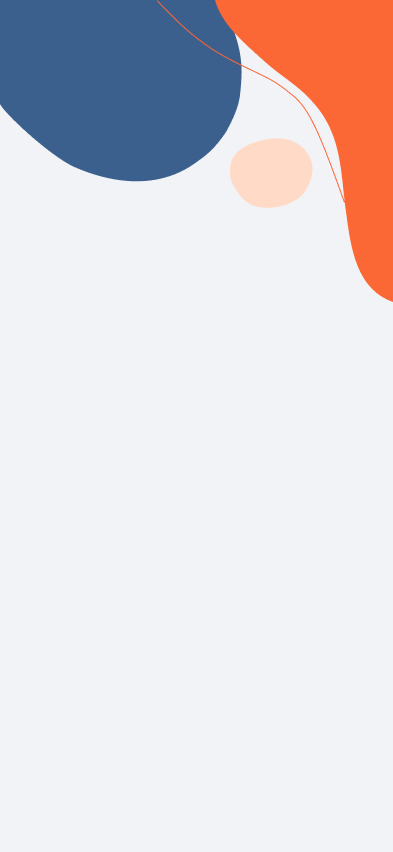
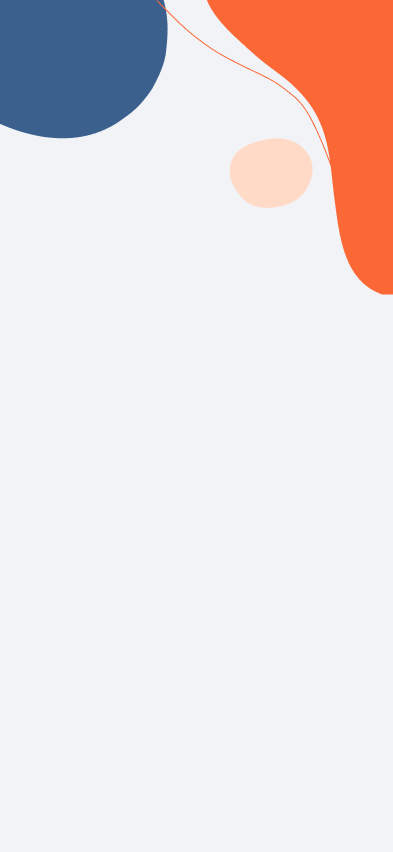
- change background image - added widgets related to register scren ( UserDataForm - AlreadyRegisteredText ) - added Register screen

diff --git a/lib/features/register/ui/register_screen.dart b/lib/features/register/ui/register_screen.dart
@@ -1,16 +1,42 @@
+import 'package:edugate_applocation/core/helpers/spacing.dart';
+import 'package:edugate_applocation/core/theming/colors.dart';
+import 'package:edugate_applocation/core/theming/styles.dart';
+import 'package:edugate_applocation/core/widgets/app_title_and_button.dart';
+import 'package:edugate_applocation/core/widgets/custom_background.dart';
+import 'package:edugate_applocation/features/register/ui/widgets/user_data_form.dart';
 import 'package:flutter/material.dart';
+import 'widgets/already_registered_text.dart';
 
 class RegisterScreen extends StatelessWidget {
   const RegisterScreen({super.key});
 
   @override
   Widget build(BuildContext context) {
-    return const Scaffold(
-      body: Center(
-        child: Text(
-          'Register Screen',
-          style: TextStyle(
-            fontSize: 20,
+    return Scaffold(
+      body: CustomBackground(
+        imagePath: 'assets/images/background.png',
+        horizontalPadding: 24,
+        child: SingleChildScrollView(
+          physics: const BouncingScrollPhysics(),
+          child: Column(
+            crossAxisAlignment: CrossAxisAlignment.stretch,
+            children: [
+              verticalSpacing(180),
+              Text(
+                'Create\nAccount',
+                style: TextStyles.font42BlueMedium,
+              ),
+              verticalSpacing(20),
+              const UserDataForm(),
+              verticalSpacing(30),
+              AppTitleAndButton(
+                buttonTitle: 'Next',
+                backgroundColor: ColorsManager.blueColor,
+                onTap: () {},
+              ),
+              verticalSpacing(30),
+              const AlreadyRegisteredText(),
+            ],
           ),
         ),
       ),

diff --git a/lib/features/register/ui/widgets/user_data_form.dart b/lib/features/register/ui/widgets/user_data_form.dart
@@ -1,0 +1,42 @@
+import 'package:edugate_applocation/core/helpers/spacing.dart';
+import 'package:edugate_applocation/core/widgets/app_text_form_field.dart';
+import 'package:flutter/material.dart';
+
+class UserDataForm extends StatelessWidget {
+  const UserDataForm({
+    super.key,
+  });
+
+  @override
+  Widget build(BuildContext context) {
+    return Form(
+      child: Column(
+        children: [
+          AppTextFormField(
+            hintText: '420202900@hti.edu.eg',
+            validator: (value) {},
+            label: 'University Email',
+          ),
+          verticalSpacing(15),
+          AppTextFormField(
+            hintText: 'User@123',
+            validator: (value) {},
+            label: 'Password',
+          ),
+          verticalSpacing(15),
+          AppTextFormField(
+            hintText: 'User Full Name',
+            validator: (value) {},
+            label: 'User Name',
+          ),
+          verticalSpacing(15),
+          AppTextFormField(
+            hintText: '0000000000',
+            validator: (value) {},
+            label: 'Phone Number',
+          ),
+        ],
+      ),
+    );
+  }
+}

diff --git a/lib/features/register/ui/widgets/already_registered_text.dart b/lib/features/register/ui/widgets/already_registered_text.dart
@@ -1,0 +1,26 @@
+
+import 'package:flutter/material.dart';
+import 'package:flutter_screenutil/flutter_screenutil.dart';
+
+import '../../../../core/theming/colors.dart';
+import '../../../../core/theming/styles.dart';
+import '../../../../core/widgets/my_rich_text.dart';
+
+class AlreadyRegisteredText extends StatelessWidget {
+  const AlreadyRegisteredText({
+    super.key,
+  });
+
+  @override
+  Widget build(BuildContext context) {
+    return MyRichText(
+      align: TextAlign.center,
+      firstText: 'Already Registered? ',
+      secondText: 'Login',
+      secondTextStyle:
+          TextStyles.font28DarkBlueMedium.copyWith(fontSize: 18.sp),
+      firstTextStyle: TextStyles.font28DarkBlueMedium
+          .copyWith(fontSize: 18.sp, color: ColorsManager.greyColor),
+    );
+  }
+}

diff --git a/lib/edugate_app.dart b/lib/edugate_app.dart
@@ -1,6 +1,3 @@
-import 'package:edugate_applocation/core/helpers/cached_data.dart';
-import 'package:edugate_applocation/core/networking/cache_helper.dart';
-
 import 'core/routing/app_router.dart';
 import 'core/routing/router.dart';
 import 'core/theming/colors.dart';
